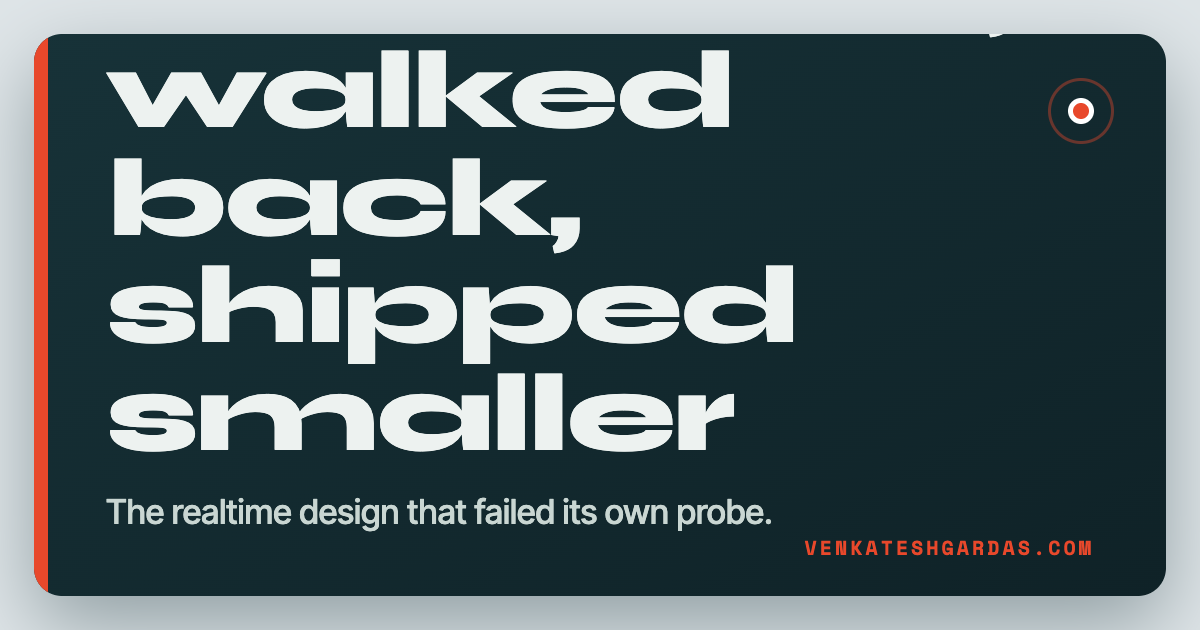
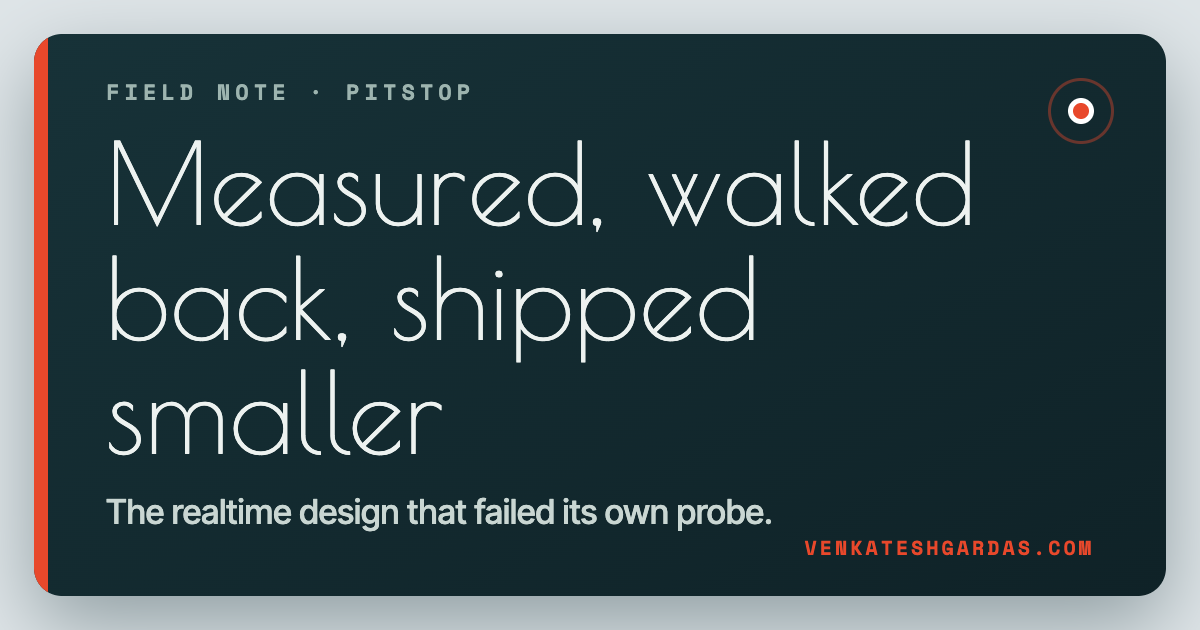
Display face: Poiret One, the free Troika match Venky picked
Big display moments (hero name, section heads, stats, contact) render
in Poiret One at its natural thin weight with synthesis disabled and
sizes bumped to carry the lighter stroke. Card titles move to Inter
Tight 600 because a hairline face cannot hold a 1.1rem title. Syne
remains in the fallback stack. All nine OG images regenerated in the
new face. DESIGN.md records the choice and the reasoning.

Changed region(s): [[0.0925, 0.0603, 0.6783, 0.7238], [0.5242, 0.2413, 0.8325, 0.3619]]

diff --git a/styles.css b/styles.css
@@ -22,7 +22,7 @@
   --gutter:5.5rem;
   --measure-prose:62ch;
   --measure-card:46ch;
-  --font-display:"Syne",sans-serif;
+  --font-display:"Poiret One","Syne",sans-serif;
   --font-body:"Inter Tight",system-ui,sans-serif;
   --font-mono:"Space Mono",ui-monospace,monospace;
 }
@@ -135,8 +135,8 @@ img{max-width:100%;}
 .vhero .eyebrow::before{content:"\2726  ";}
 .vhero h1{
   position:absolute;left:4%;bottom:22%;z-index:4;max-width:70%;margin:0;
-  font-family:var(--font-display);font-weight:800;
-  font-size:clamp(2.4rem,5.2vw,4.3rem);line-height:1;letter-spacing:-.02em;color:#fff;
+  font-family:var(--font-display);font-weight:400;font-synthesis-weight:none;
+  font-size:clamp(2.6rem,5.6vw,4.6rem);line-height:1;letter-spacing:.01em;color:#fff;
   text-shadow:0 2px 30px rgba(23,50,56,.45);
 }
 .vhero .sub{
@@ -179,8 +179,8 @@ img{max-width:100%;}
 .phero .lead{padding:2.6rem 1.8rem 2.2rem;border-radius:var(--radius);}
 .phero .lead .mono{opacity:.85;display:block;margin-bottom:1.4rem;}
 .phero h1{
-  font-family:var(--font-display);font-weight:800;
-  font-size:clamp(2rem,4vw,3rem);line-height:1.04;letter-spacing:-.02em;margin:0 0 1rem;
+  font-family:var(--font-display);font-weight:400;font-synthesis-weight:none;
+  font-size:clamp(2.2rem,4.4vw,3.3rem);line-height:1.06;letter-spacing:.01em;margin:0 0 1rem;
 }
 .phero .say{font-size:clamp(1rem,1.6vw,1.15rem);line-height:1.4;max-width:30ch;margin:0;}
 
@@ -229,8 +229,8 @@ img{max-width:100%;}
 .shead{grid-template-columns:var(--gutter) 1fr;align-items:baseline;padding:3rem 2rem .6rem;}
 .shead .n{color:var(--coral-soft);font-family:var(--font-mono);padding:0;}
 .shead h2{
-  font-family:var(--font-display);font-weight:700;
-  font-size:1.7rem;letter-spacing:-.01em;margin:0;padding:0;color:var(--text);
+  font-family:var(--font-display);font-weight:400;font-synthesis-weight:none;
+  font-size:1.9rem;letter-spacing:.01em;margin:0;padding:0;color:var(--text);
 }
 
 /* ---- card grids ---- */
@@ -243,7 +243,7 @@ img{max-width:100%;}
 .vent .glyph{margin-bottom:.6rem;}
 .vent .glyph svg{display:block;}
 .vent .top{display:flex;justify-content:space-between;align-items:baseline;gap:1rem;}
-.vent h3{font-family:var(--font-display);font-weight:700;font-size:1.5rem;letter-spacing:-.01em;margin:0;}
+.vent h3{font-family:var(--font-body);font-weight:600;font-size:1.4rem;letter-spacing:-.01em;margin:0;}
 .vent p{margin:0;font-size:.92rem;line-height:1.5;max-width:var(--measure-card);flex:1;}
 .vent .go{font-family:var(--font-mono);font-size:.66rem;letter-spacing:.12em;text-transform:uppercase;margin-top:.8rem;font-weight:700;}
 a.vent{transition:transform .15s cubic-bezier(.2,.6,.2,1);}
@@ -257,7 +257,7 @@ a.vent:hover .go{text-decoration:underline;}
 
 .job{padding:1.7rem var(--pad-x);}
 .job .mono{color:var(--muted);display:block;margin-bottom:.9rem;}
-.job h3{font-family:var(--font-display);font-weight:700;font-size:1.3rem;margin:0 0 .2rem;}
+.job h3{font-family:var(--font-body);font-weight:600;font-size:1.25rem;margin:0 0 .2rem;}
 .job .role{display:block;font-size:.9rem;font-weight:500;color:var(--muted);margin-bottom:.7rem;}
 .job p{margin:0;font-size:.92rem;max-width:var(--measure-card);}
 a.job{display:block;transition:transform .15s cubic-bezier(.2,.6,.2,1);}
@@ -267,7 +267,7 @@ a.job:hover .go{text-decoration:underline;}
 
 .note{padding:1.6rem var(--pad-x);}
 .note .mono{color:var(--coral-soft);}
-.note h3{font-family:var(--font-display);font-weight:700;font-size:1.1rem;margin:.6rem 0 .45rem;}
+.note h3{font-family:var(--font-body);font-weight:600;font-size:1.1rem;margin:.6rem 0 .45rem;}
 .note p{margin:0;font-size:.9rem;color:var(--muted);max-width:var(--measure-card);}
 a.note{display:block;text-decoration:none;transition:transform .15s cubic-bezier(.2,.6,.2,1);}
 a.note:hover{transform:translateY(-3px);}
@@ -349,8 +349,8 @@ a.note:hover .go{text-decoration:underline;}
 /* ---- stats ---- */
 .bignum{padding:1.4rem var(--pad-x);display:grid;grid-template-columns:auto 1fr;gap:1.1rem;align-items:center;}
 .bignum b{
-  font-family:var(--font-display);font-weight:800;
-  font-size:clamp(2.1rem,3.6vw,2.9rem);letter-spacing:-.02em;
+  font-family:var(--font-display);font-weight:400;font-synthesis-weight:none;
+  font-size:clamp(2.3rem,3.8vw,3.1rem);letter-spacing:.02em;
   line-height:1;color:#fff;
 }
 .bignum span{
@@ -390,9 +390,9 @@ a.note:hover .go{text-decoration:underline;}
   padding:4.2rem 2rem;text-align:center;color:#fff;margin:1.2rem 0 0;
 }
 .contact .mono{color:rgba(255,255,255,.85);}
-.contact h2{
-  font-family:var(--font-display);font-weight:800;
-  font-size:clamp(2.2rem,6vw,3.6rem);letter-spacing:-.02em;
+.contact h2,.contact h1{
+  font-family:var(--font-display);font-weight:400;font-synthesis-weight:none;
+  font-size:clamp(2.4rem,6.4vw,3.9rem);letter-spacing:.01em;
   margin:.7rem 0 .9rem;line-height:1;
 }
 .contact p{margin:0 auto 1.8rem;max-width:46ch;font-size:1.05rem;}

diff --git a/colophon.html b/colophon.html
@@ -16,7 +16,7 @@
 <link rel="canonical" href="https://venkateshgardas.com/colophon">
 <link rel="icon" href="/favicon.ico" sizes="48x48">
 <link rel="apple-touch-icon" href="/apple-touch-icon.png">
-<link rel="stylesheet" href="/styles.css?v=15">
+<link rel="stylesheet" href="/styles.css?v=16">
 </head>
 <body>
 <a class="skip" href="#main">Skip to content</a>
@@ -46,7 +46,7 @@
       <div class="phead mono">Spec</div>
       <dl>
         <div class="prow"><dt class="mono">Stack</dt><dd>HTML and one stylesheet. No framework, no build step</dd></div>
-        <div class="prow"><dt class="mono">Type</dt><dd>Syne, Inter Tight, Space Mono, self-hosted</dd></div>
+        <div class="prow"><dt class="mono">Type</dt><dd>Poiret One, Inter Tight, Space Mono, self-hosted</dd></div>
         <div class="prow"><dt class="mono">Hosting</dt><dd>Cloudflare Pages, deployed on push</dd></div>
         <div class="prow"><dt class="mono">Design debt</dt><dd>The first design owed C40’s grid. This one owes Arounda’s port concept</dd></div>
       </dl>

diff --git a/fonts.css b/fonts.css
@@ -1,6 +1,7 @@
 @font-face{font-family:"Inter Tight";font-style:normal;font-weight:400;font-display:swap;src:url(/fonts/inter-tight-400.woff2) format("woff2");}
 @font-face{font-family:"Inter Tight";font-style:normal;font-weight:500;font-display:swap;src:url(/fonts/inter-tight-500.woff2) format("woff2");}
 @font-face{font-family:"Inter Tight";font-style:normal;font-weight:600;font-display:swap;src:url(/fonts/inter-tight-600.woff2) format("woff2");}
+@font-face{font-family:"Poiret One";font-style:normal;font-weight:400;font-display:swap;src:url(/fonts/poiret-one-400.woff2) format("woff2");}
 @font-face{font-family:"Syne";font-style:normal;font-weight:700;font-display:swap;src:url(/fonts/syne-700.woff2) format("woff2");}
 @font-face{font-family:"Syne";font-style:normal;font-weight:800;font-display:swap;src:url(/fonts/syne-800.woff2) format("woff2");}
 @font-face{font-family:"Space Mono";font-style:normal;font-weight:400;font-display:swap;src:url(/fonts/space-mono-400.woff2) format("woff2");}

diff --git a/notes/pitstop-realtime.html b/notes/pitstop-realtime.html
@@ -16,7 +16,7 @@
 <link rel="canonical" href="https://venkateshgardas.com/notes/pitstop-realtime">
 <link rel="icon" href="/favicon.ico" sizes="48x48">
 <link rel="apple-touch-icon" href="/apple-touch-icon.png">
-<link rel="stylesheet" href="/styles.css?v=15">
+<link rel="stylesheet" href="/styles.css?v=16">
 <link rel="alternate" type="application/rss+xml" title="Field notes" href="/rss.xml">
 </head>
 <body>

diff --git a/expenzing.html b/expenzing.html
@@ -16,7 +16,7 @@
 <link rel="canonical" href="https://venkateshgardas.com/expenzing">
 <link rel="icon" href="/favicon.ico" sizes="48x48">
 <link rel="apple-touch-icon" href="/apple-touch-icon.png">
-<link rel="stylesheet" href="/styles.css?v=15">
+<link rel="stylesheet" href="/styles.css?v=16">
 </head>
 <body>
 <a class="skip" href="#main">Skip to content</a>

diff --git a/pitstop.html b/pitstop.html
@@ -16,7 +16,7 @@
 <link rel="canonical" href="https://venkateshgardas.com/pitstop">
 <link rel="icon" href="/favicon.ico" sizes="48x48">
 <link rel="apple-touch-icon" href="/apple-touch-icon.png">
-<link rel="stylesheet" href="/styles.css?v=15">
+<link rel="stylesheet" href="/styles.css?v=16">
 </head>
 <body>
 <a class="skip" href="#main">Skip to content</a>

diff --git a/photos.html b/photos.html
@@ -16,7 +16,7 @@
 <link rel="canonical" href="https://venkateshgardas.com/photos">
 <link rel="icon" href="/favicon.ico" sizes="48x48">
 <link rel="apple-touch-icon" href="/apple-touch-icon.png">
-<link rel="stylesheet" href="/styles.css?v=15">
+<link rel="stylesheet" href="/styles.css?v=16">
 </head>
 <body>
 <a class="skip" href="#main">Skip to content</a>

diff --git a/saathi.html b/saathi.html
@@ -16,7 +16,7 @@
 <link rel="canonical" href="https://venkateshgardas.com/saathi">
 <link rel="icon" href="/favicon.ico" sizes="48x48">
 <link rel="apple-touch-icon" href="/apple-touch-icon.png">
-<link rel="stylesheet" href="/styles.css?v=15">
+<link rel="stylesheet" href="/styles.css?v=16">
 </head>
 <body>
 <a class="skip" href="#main">Skip to content</a>

diff --git a/kpmg.html b/kpmg.html
@@ -16,7 +16,7 @@
 <link rel="canonical" href="https://venkateshgardas.com/kpmg">
 <link rel="icon" href="/favicon.ico" sizes="48x48">
 <link rel="apple-touch-icon" href="/apple-touch-icon.png">
-<link rel="stylesheet" href="/styles.css?v=15">
+<link rel="stylesheet" href="/styles.css?v=16">
 </head>
 <body>
 <a class="skip" href="#main">Skip to content</a>

diff --git a/roko.html b/roko.html
@@ -16,7 +16,7 @@
 <link rel="canonical" href="https://venkateshgardas.com/roko">
 <link rel="icon" href="/favicon.ico" sizes="48x48">
 <link rel="apple-touch-icon" href="/apple-touch-icon.png">
-<link rel="stylesheet" href="/styles.css?v=15">
+<link rel="stylesheet" href="/styles.css?v=16">
 </head>
 <body>
 <a class="skip" href="#main">Skip to content</a>

diff --git a/cv.html b/cv.html
@@ -16,7 +16,7 @@
 <link rel="canonical" href="https://venkateshgardas.com/cv">
 <link rel="icon" href="/favicon.ico" sizes="48x48">
 <link rel="apple-touch-icon" href="/apple-touch-icon.png">
-<link rel="stylesheet" href="/styles.css?v=15">
+<link rel="stylesheet" href="/styles.css?v=16">
 </head>
 <body>
 <a class="skip" href="#main">Skip to content</a>

diff --git a/notes/index.html b/notes/index.html
@@ -18,7 +18,7 @@
 <link rel="icon" href="/favicon.ico" sizes="48x48">
 <link rel="apple-touch-icon" href="/apple-touch-icon.png">
 <link rel="stylesheet" href="/fonts.css">
-<link rel="stylesheet" href="/styles.css?v=15">
+<link rel="stylesheet" href="/styles.css?v=16">
 </head>
 <body>
 <a class="skip" href="#main">Skip to content</a>
